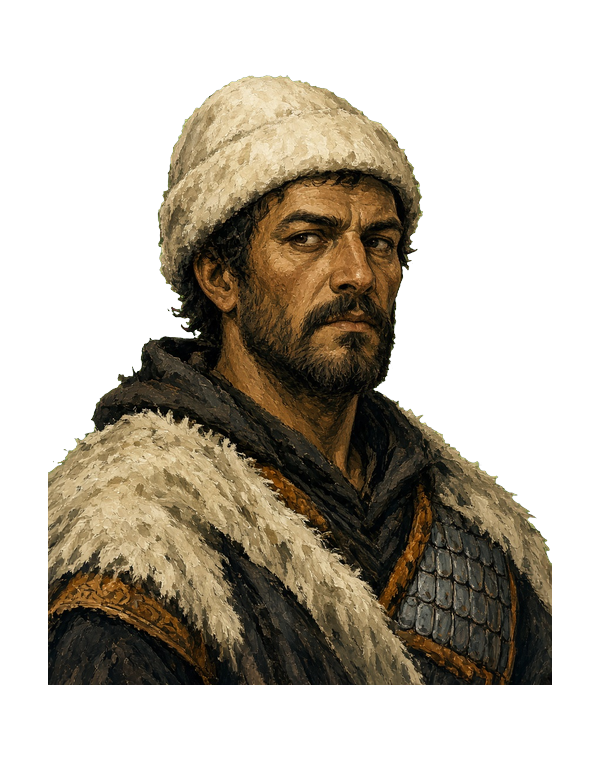
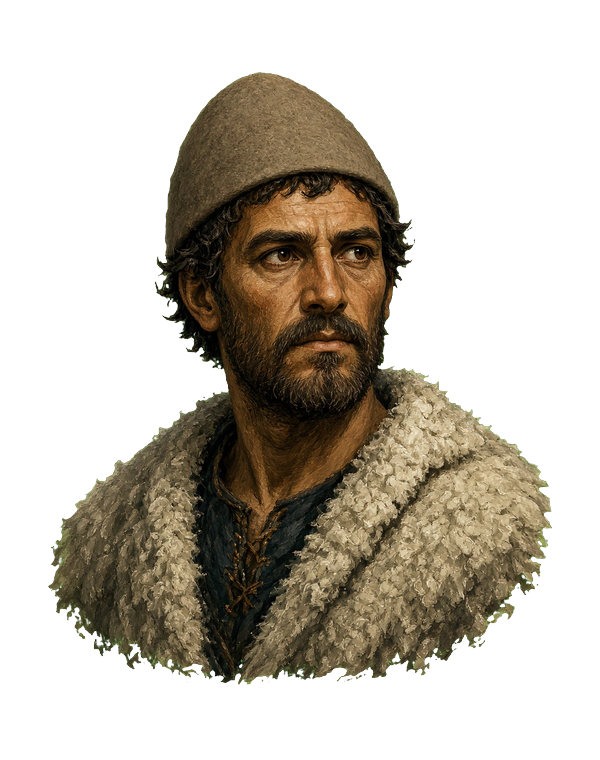
Gemini yeniden üretim Y1: 29 görsel düzeltildi, 1 hâlâ kusurlu (Muharrir)

diff --git a/docs/arayuz/GEMINI_YENIDEN_URETIM_LISTESI.md b/docs/arayuz/GEMINI_YENIDEN_URETIM_LISTESI.md
@@ -6,127 +6,130 @@ Bu dosya, ana liste (`GEMINI_SIRADAKI_URETIM_LISTESI.md`) ve ek liste (`GEMINI_E
 
 **Toplam aday:** 84 kalem (ana liste 48, ek liste 36).
 
+**Y1 (ilk 30, N062–N266):** 29 düzeldi ve `[x]` işaretlendi; N062 Y1 sonrası hâlâ kusurlu (2 deneme, v1 alındı). Zar ve sabah defteri kareleri bu pencerede yoktu, atlanan yok. Kalan aday: 54 denenmemiş + 1 hâlâ kusurlu.
+
 ---
 
 ## Ana liste (N)
 
 ### N062 — `assets/art/char/char_chr_001_neutral_card.png`
+- **Y1 sonrası hâlâ kusurlu:** İki deneme. v1'de doğal şakak izi var ama karakterin *sağ* şakağında (izleyicinin solu); v2 yıldız biçimli damga ve daha çok alın ortasında. Daha iyi olan v1 alındı; sol şakak hâlâ yanlış/eksik.
 - **Kusur:** Sol şakaktaki eski yara izi yok veya okunaksız; gergin, sert omuzlu adam duruşu duruyor ama tanımlayıcı iz eksik.
 - **Düzeltilmiş prompt ipucu:** Shoulders-up, 600×760, yeşil zemin. Güneş yanığı gergin yüz; **sol şakakta belirgin ama grafik olmayan eski yara izi**; sert omuzlar; yanmış deve yünü ceket ve çamurlu kaba giysi. İzi saç çizgisinin hemen yanında bırak, sakal onu örtmesin.
 
-### N086 — `assets/art/char/char_chr_009_neutral_card.png`
+### [x] N086 — `assets/art/char/char_chr_009_neutral_card.png`
 - **Kusur:** Çiçek bozuğu ve sağ kulak memesi hasarı zayıf; sarı eğri baş örtüsü ve yamalı yelek duruyor.
 - **Düzeltilmiş prompt ipucu:** Shoulders-up, 600×760. Kurnaz, çiçek bozuğu yüz; **sağ kulak memesi net biçimde çentikli/hasarlı** (baş örtüsünün altından görünsün); yamalı renkli yün yelek; eğri, soluk sarı baş örtüsü.
 
-### N091 — `assets/art/icons/icon_clue_chr_010_obje2.png`
+### [x] N091 — `assets/art/icons/icon_clue_chr_010_obje2.png`
 - **Kusur:** Kıl çuvalın yanındaki keçiler silüet değil, çantaya göre büyük tam figürler; yük ikonu değil mini sahne.
 - **Düzeltilmiş prompt ipucu:** 256×256, yeşil zemin. Bir kıl yol çuvalı ve **yanında iki küçük keçi silüeti** (ayrıntılı hayvan değil, sade koyu leke/gölge, çuvaldan bariz küçük). İnsan yok.
 
-### N095 — `assets/art/char/char_chr_012_neutral_card.png`
+### [x] N095 — `assets/art/char/char_chr_012_neutral_card.png`
 - **Kusur:** Koruyucu, dik duruşlu kadın yerine daha çok yorgun yaşlı portre; “firm protective posture” zayıf.
 - **Düzeltilmiş prompt ipucu:** Shoulders-up, 600×760. Güneş yanığı, kederli ama **dik ve koruyucu duruşlu** orta yaşlı kadın; soluk pamuk entari, yıpranmış açık baş örtüsü. Çökmüş/çok yaşlı görünmesin.
 
-### N101 — `assets/art/char/char_chr_014_neutral_card.png`
+### [x] N101 — `assets/art/char/char_chr_014_neutral_card.png`
 - **Kusur:** Sade keçe çoban külahı yerine kabarık beyaz kürk/kalpak; koyun postu evet, başlık yanlış.
 - **Düzeltilmiş prompt ipucu:** Shoulders-up, 600×760. Uyanık, kalın kaşlı çoban; koyun postu pelerin; **sade, düşük keçe çoban külahı** (kabarık kürk kalpak değil).
 
-### N134 — `assets/art/char/char_chr_025_neutral_card.png`
+### [x] N134 — `assets/art/char/char_chr_025_neutral_card.png`
 - **Kusur:** Un izi gömlek ve omuzda değil, saçta yaşlanma/beyazlama gibi duruyor; terle ıslanmış gömlek zayıf.
 - **Düzeltilmiş prompt ipucu:** Shoulders-up, 600×760. Kuru dudaklı, düşük omuzlu yorgun değirmenci; **terle hafif ıslanmış gömlek** ve **omuz/göğüste ince un serpintisi** (saçı unla ağartma).
 
-### N145 — `assets/art/icons/icon_clue_chr_028_obje2.png`
+### [x] N145 — `assets/art/icons/icon_clue_chr_028_obje2.png`
 - **Kusur:** Yelek astarına sarılı iki top ucu yerine dört kumaş topu yığını.
 - **Düzeltilmiş prompt ipucu:** 256×256, yeşil zemin. **Yalnız iki kumaş topunun uçları**, bir yelek astarına sarılı; dört top veya bağımsız yığın olmasın.
 
-### N155 — `assets/art/icons/icon_esya_ekmek_64.png`
+### [x] N155 — `assets/art/icons/icon_esya_ekmek_64.png`
 - **Kusur:** Yassı pide/ekmek değil, delikli küçük yuvarlak çörek/kurabiye.
 - **Düzeltilmiş prompt ipucu:** 64×64, 2px pay. **Tek yassı Anadolu pide/yufka ekmeği** (ızgara/waffle dokusu ve şişkin çörek yok), soluk altın-ocre, asla lime değil.
 
-### N173 — `assets/arayuz/ikonlar/uyari_isci_yok.png`
+### [x] N173 — `assets/arayuz/ikonlar/uyari_isci_yok.png`
 - **Kusur:** “İşçi yok” uyarı silüeti yerine dolu, ağır deri eldiven çifti; uyarı ikonu olarak zayıf.
 - **Düzeltilmiş prompt ipucu:** 256×256 (uyarı_* gibi). **Boş, yere bırakılmış sade iş eldivenleri** — giyilmemiş, içi boş; zırh/gauntlet değil. Yazı ve noktalama yok.
 
-### N176 — `assets/art/ui/ui_bar_segment_full.png`
+### [x] N176 — `assets/art/ui/ui_bar_segment_full.png`
 - **Kusur:** 22×30 tuvalde konu yalnızca ~7px eninde ince bir çubuk; dolu taş dilim tuvali doldurmuyor, neredeyse görünmez.
 - **Düzeltilmiş prompt ipucu:** **22×30, dilim tuvali neredeyse doldursun** (1px pay yeter). Dikey, sağlam, kırksız taş bar dilimi; şeffaf kenar minimum.
 
-### N177 — `assets/art/ui/ui_bar_segment_empty.png`
+### [x] N177 — `assets/art/ui/ui_bar_segment_empty.png`
 - **Kusur:** N176 ile aynı: boş yuva da ince bir çizgi; sığ taş oyuğu okunaksız.
 - **Düzeltilmiş prompt ipucu:** 22×30, tuvali dolduran **boş sığ taş yuva** (oyuk çerçeve, içi boş). İnce çubuk olmasın.
 
-### N178 — `assets/art/ui/ui_bar_segment_cracked_01.png`
+### [x] N178 — `assets/art/ui/ui_bar_segment_cracked_01.png`
 - **Kusur:** Aynı ince dilim; tek kılcal çatlak 22×30’da okunaksız.
 - **Düzeltilmiş prompt ipucu:** 22×30, tuvali dolduran dikey taş dilim, **ortada tek net kılcal çatlak**.
 
-### N179 — `assets/art/ui/ui_bar_segment_cracked_02.png`
+### [x] N179 — `assets/art/ui/ui_bar_segment_cracked_02.png`
 - **Kusur:** Aynı ince dilim; iki geniş çatlak seçilmiyor.
 - **Düzeltilmiş prompt ipucu:** 22×30, tuvali dolduran dikey taş dilim, **iki daha geniş çatlak** (N178’den bariz farklı).
 
-### N181 — `assets/art/fx/fx_torchlight_patch_village_01.png`
+### [x] N181 — `assets/art/fx/fx_torchlight_patch_village_01.png`
 - **Kusur:** Yumuşak amber ışık lekesi değil, opak altın yumurta/küre.
 - **Düzeltilmiş prompt ipucu:** 256×256, yeşil zemin. **Yumuşak, yarı saydam amber ışık lekesi** (meşale izdüşümü); sert kenarlı, opak küre/yumurta olmasın. Alev lime değil.
 
-### N187 — `assets/art/fx/fx_smoke_01.png`
+### [x] N187 — `assets/art/fx/fx_smoke_01.png`
 - **Kusur:** Yumuşak duman püfü yerine sert konturlu, çizgi-roman bulutu.
 - **Düzeltilmiş prompt ipucu:** 256×256, yeşil zemin. **Tek yumuşak gri duman püfü**, dağınık kenar, sert lop/bulut çizgisi yok.
 
-### N192 — `assets/art/icons/icon_trade_contract.png`
+### [x] N192 — `assets/art/icons/icon_trade_contract.png`
 - **Kusur:** Mühürde amblem/figür var; kurdeleli berat gibi, sade katlı boş sözleşme değil.
 - **Düzeltilmiş prompt ipucu:** 256×256, yeşil zemin. **Katlı, boş, mühürlü sözleşme**; mühür düz balmumu (harf, arma, figür yok), gösterişli kurdele yok.
 
-### N196 — `assets/ui/koy/gece_kapisi/mevsim_yaz.png`
+### [x] N196 — `assets/ui/koy/gece_kapisi/mevsim_yaz.png`
 - **Kusur:** Sade “güneş + başak” ikonu değil, çitli küçük peyzaj.
 - **Düzeltilmiş prompt ipucu:** 256×256, yeşil zemin. **Yalnız bir güneş ve birkaç buğday başağı**; çit, tarla, sahne yok. Başaklar tozlu altın, asla lime değil.
 
-### N198 — `assets/ui/koy/gece_kapisi/mevsim_kis.png`
+### [x] N198 — `assets/ui/koy/gece_kapisi/mevsim_kis.png`
 - **Kusur:** Sade kış ikonu yerine çok ayrıntılı, modern kristal kar tanesi.
 - **Düzeltilmiş prompt ipucu:** 256×256, yeşil zemin. **Sade, az kollu kar tanesi** (aşırı simetrik modern kristal değil), 13. yy ikon sadeleştirmesi.
 
-### N216 — `assets/art/env/son_beyin_uc_koyu.png`
+### [x] N216 — `assets/art/env/son_beyin_uc_koyu.png`
 - **Kusur:** Korumalı uç köy çok karanlık/kalabalık; boş bez flamalar ve köy silüeti zor okunuyor.
 - **Düzeltilmiş prompt ipucu:** 1920×1080 opak. Muhafazalı uç köy, **düz boş bez flamalar** (işaret/yazı yok); okunaklı yapı silüetleri, figürleri seyrek tut.
 
-### N217 — `assets/art/env/son_ahi_kasabasi.png`
+### [x] N217 — `assets/art/env/son_ahi_kasabasi.png`
 - **Kusur:** Ön planda dev terazi ve figürler sahneyi dolduruyor; atölyeli çarşı geri planda kalıyor.
 - **Düzeltilmiş prompt ipucu:** 1920×1080 opak. Küçük, işlek zanaat çarşısı ve atölyeler; **sade, ölçülü bir terazi** (sahneyi yutmasın). Figürler az veya uzak. Yazı yok.
 
-### N220 — `assets/art/env/prolog_01.png`
+### [x] N220 — `assets/art/env/prolog_01.png`
 - **Kusur:** Bozulmuş ordu kampı neredeyse okunaksız; ön planda boş ahşap sehpa/darağacı hissi, çadırlar çok silik.
 - **Düzeltilmiş prompt ipucu:** 1920×1080 opak. Anadolu tepelerinde **uzakta bozulmuş ordu kampı** (çadır, sönük ocak, dağınık direkler) net seçilsin; grafik şiddet yok; ön planı boş sehpa kaplamasın.
 
-### N224 — `assets/art/textures/gece_kapisi/snow_ground_albedo.png`
+### [x] N224 — `assets/art/textures/gece_kapisi/snow_ground_albedo.png`
 - **Kusur:** Kar örtülü toprak değil, benekli sıva/granit gibi duruyor; kar birikimi hissi yok.
 - **Düzeltilmiş prompt ipucu:** 1024×1024 opak, **dikişsiz (seamless) full-bleed**. Kaba toprak üstünde ince, soluk kar örtüsü; sıva/granit dokusu olmasın. Kenarlar döşenirken süreksiz olmasın.
 
-### N226 — `assets/art/textures/gece_kapisi/flood_water_albedo.png`
+### [x] N226 — `assets/art/textures/gece_kapisi/flood_water_albedo.png`
 - **Kusur:** Çamurlu sel suyu yerine düzenli pul/pullu desen; döşeme tekrarı hissi var.
 - **Düzeltilmiş prompt ipucu:** 1024×1024 opak, **dikişsiz**. Sakin, çamurlu sel suyu dalgacıkları; pul pul balık pulu veya belirgin karo tekrarı olmasın.
 
-### N238 — `assets/art/inspect/yara.png`
+### [x] N238 — `assets/art/inspect/yara.png`
 - **Kusur:** Yaralı bir uzuv değil, tek başına sarılı sargı topu/boğum.
 - **Düzeltilmiş prompt ipucu:** 512×512, yeşil zemin. **Bezle sarılmış bir yara close-up** (kol veya el üzerinde), grafik/kanlı değil; bağımsız sargı rulosu olmasın.
 
-### N245 — `assets/art/icons/icon_stok_sargi.png`
+### [x] N245 — `assets/art/icons/icon_stok_sargi.png`
 - **Kusur:** Sargı bezi rulosu yerine katlı çarşaf/havlu yığını.
 - **Düzeltilmiş prompt ipucu:** 256×256, yeşil zemin. **Katlı veya rulo keten sargı bezi**, havlu/çarşaf yığını değil.
 
-### N249 — `assets/art/icons/icon_stok_kacak_iksir.png`
+### [x] N249 — `assets/art/icons/icon_stok_kacak_iksir.png`
 - **Kusur:** Küçük mühürlü seramik iksir şişesi yerine sıradan matara/şişe; mühür zayıf.
 - **Düzeltilmiş prompt ipucu:** 256×256, yeşil zemin. **Küçük, ağızı mühürlü seramik iksir kabı**; yazı, etiket, arma yok.
 
-### N254 — `assets/art/icons/icon_stok_tirpan.png`
+### [x] N254 — `assets/art/icons/icon_stok_tirpan.png`
 - **Kusur:** Uzun saplı tırpan değil, daha kısa saplı orak gibi duruyor.
 - **Düzeltilmiş prompt ipucu:** 256×256, yeşil zemin. **Uzun saplı Anadolu tırpanı** (kısa orak değil), sade demir ağız, yazısız.
 
-### N258 — `assets/art/icons/icon_stok_ilac_stok.png`
+### [x] N258 — `assets/art/icons/icon_stok_ilac_stok.png`
 - **Kusur:** Tek sade ilaç kabı yerine desenli iki şişe.
 - **Düzeltilmiş prompt ipucu:** 256×256, yeşil zemin. **Tek sade seramik ilaç şişesi**; yazı, etiket, kalabalık desen ve ikinci şişe yok.
 
-### N259 — `assets/art/icons/icon_stok_heyet.png`
+### [x] N259 — `assets/art/icons/icon_stok_heyet.png`
 - **Kusur:** Kapalı mühürlü rulo değil, açık asılı ferman yaprağı.
 - **Düzeltilmiş prompt ipucu:** 256×256, yeşil zemin. **Kapalı, mühürlü heyet/haraç rulosu**; açık yaprak değil. Mühür ve parşömende harf/rakam yok.
 
-### N266 — `assets/art/icons/icon_usta_defteri.png`
+### [x] N266 — `assets/art/icons/icon_usta_defteri.png`
 - **Kusur:** Kapak boş ama sol bağ uçları simetrik işaret gibi duruyor.
 - **Düzeltilmiş prompt ipucu:** 256×256, yeşil zemin. Kapalı sade deri defter, **tamamen boş kapak**, bağcıklar yazı veya arma gibi hizalanmasın.
 
